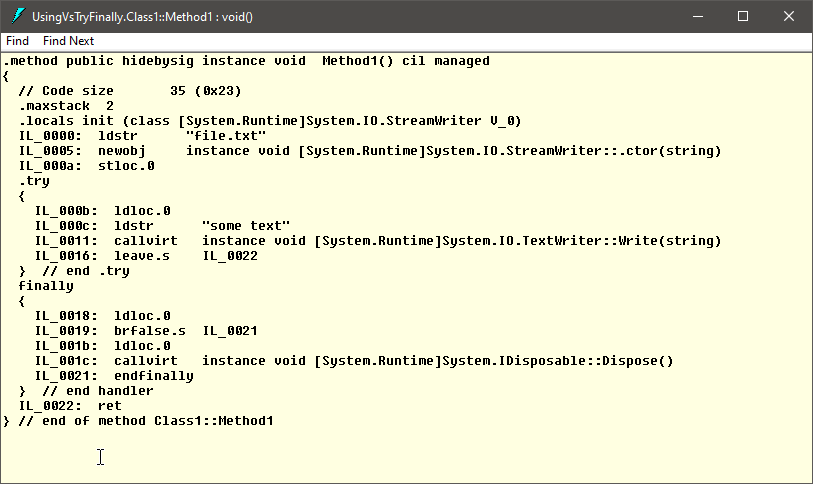
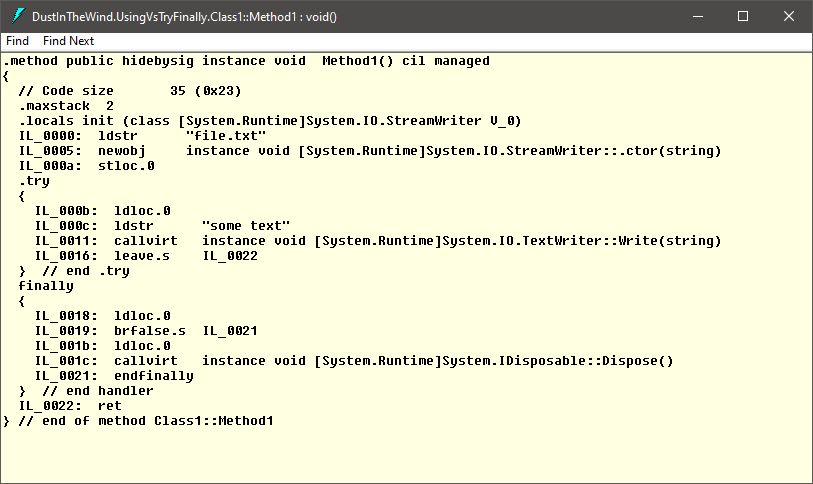
add copyright information

Changed region(s): [[0.0308, 0.0, 0.4305, 0.062], [0.123, 0.9298, 0.1538, 0.9607]]

diff --git a/sources/UsingVsTryFinally/Class1.cs b/sources/UsingVsTryFinally/Class1.cs
@@ -1,7 +1,23 @@
-using System;
+// C# Pills 15mg
+// Copyright (C) 2021 Dust in the Wind
+// 
+// This program is free software: you can redistribute it and/or modify
+// it under the terms of the GNU General Public License as published by
+// the Free Software Foundation, either version 3 of the License, or
+// (at your option) any later version.
+// 
+// This program is distributed in the hope that it will be useful,
+// but WITHOUT ANY WARRANTY; without even the implied warranty of
+// MERCHANTABILITY or FITNESS FOR A PARTICULAR PURPOSE.  See the
+// GNU General Public License for more details.
+// 
+// You should have received a copy of the GNU General Public License
+// along with this program.  If not, see <http://www.gnu.org/licenses/>.
+
+using System;
 using System.IO;
 
-namespace UsingVsTryFinally
+namespace DustInTheWind.UsingVsTryFinally
 {
     public class Class1
     {
